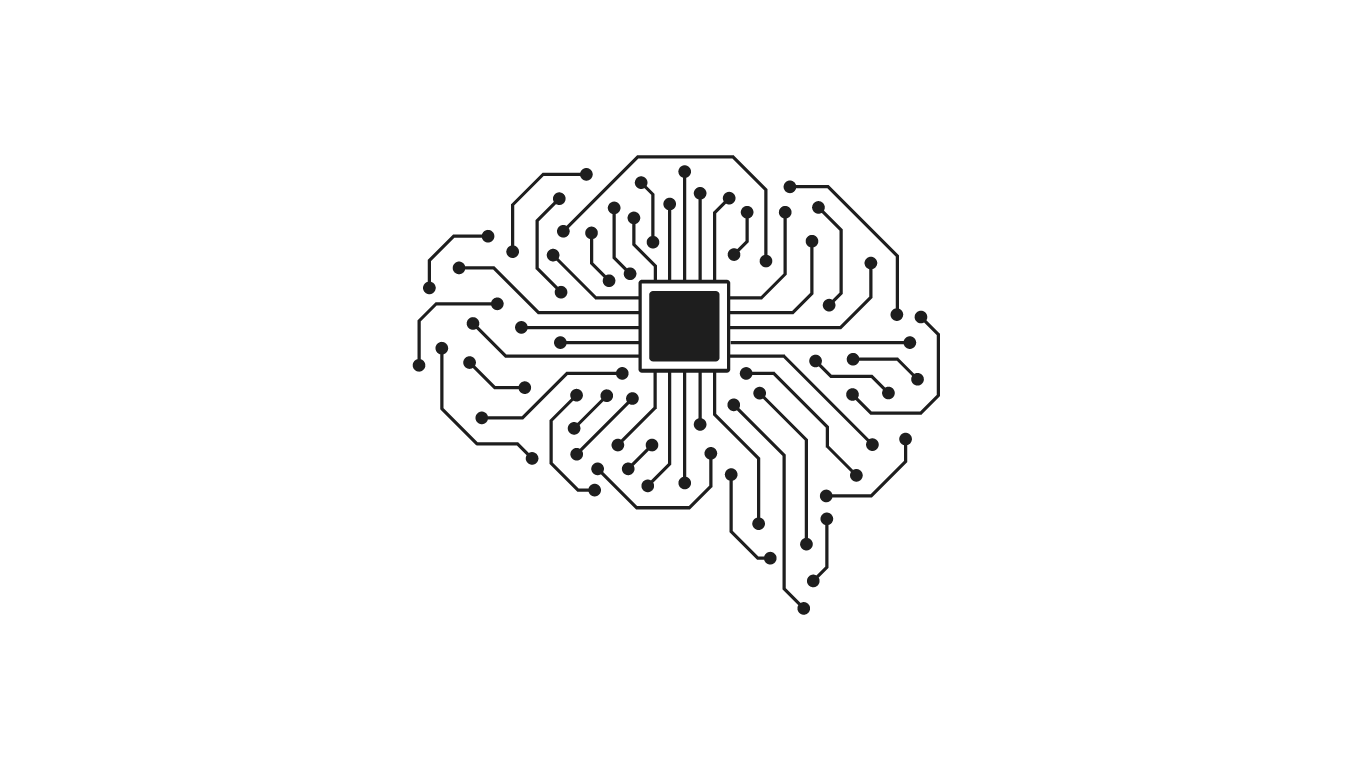
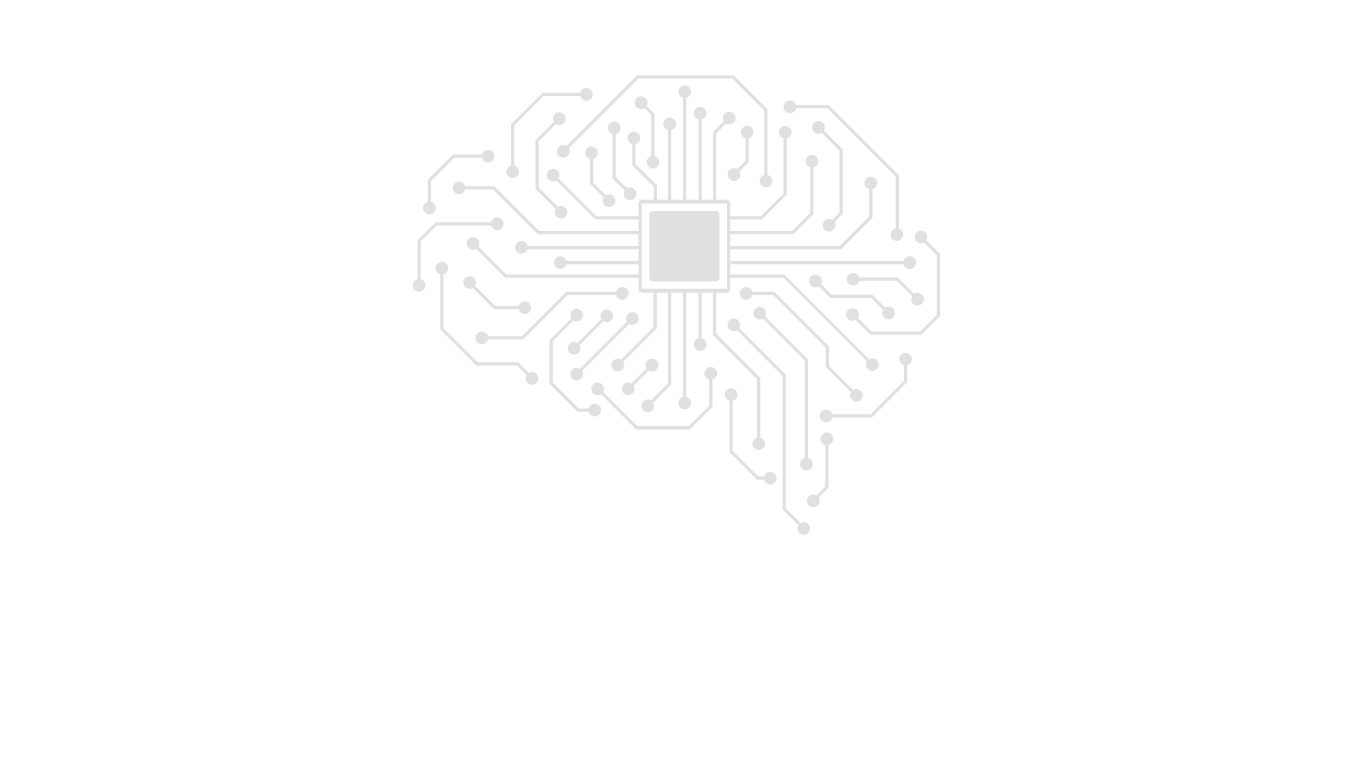
updating front img

Changed region(s): [[0.3075, 0.0938, 0.7072, 0.8125], [0.3997, 0.0938, 0.4305, 0.125]]

diff --git a/index.html b/index.html
@@ -68,7 +68,7 @@
 		</nav>
 
 	<header id="fh5co-header" class="fh5co-cover js-fullheight" role="banner">
-		<div class="overlay"><img src="images/neurochip2.png", class="bg-front-img"></div>
+		<div class="overlay"><img src="images/neurochip.png", class="bg-front-img"></div>
 		<div class="container">
 			<div class="row">
 				<div class="col-md-8 col-md-offset-2 text-center">
